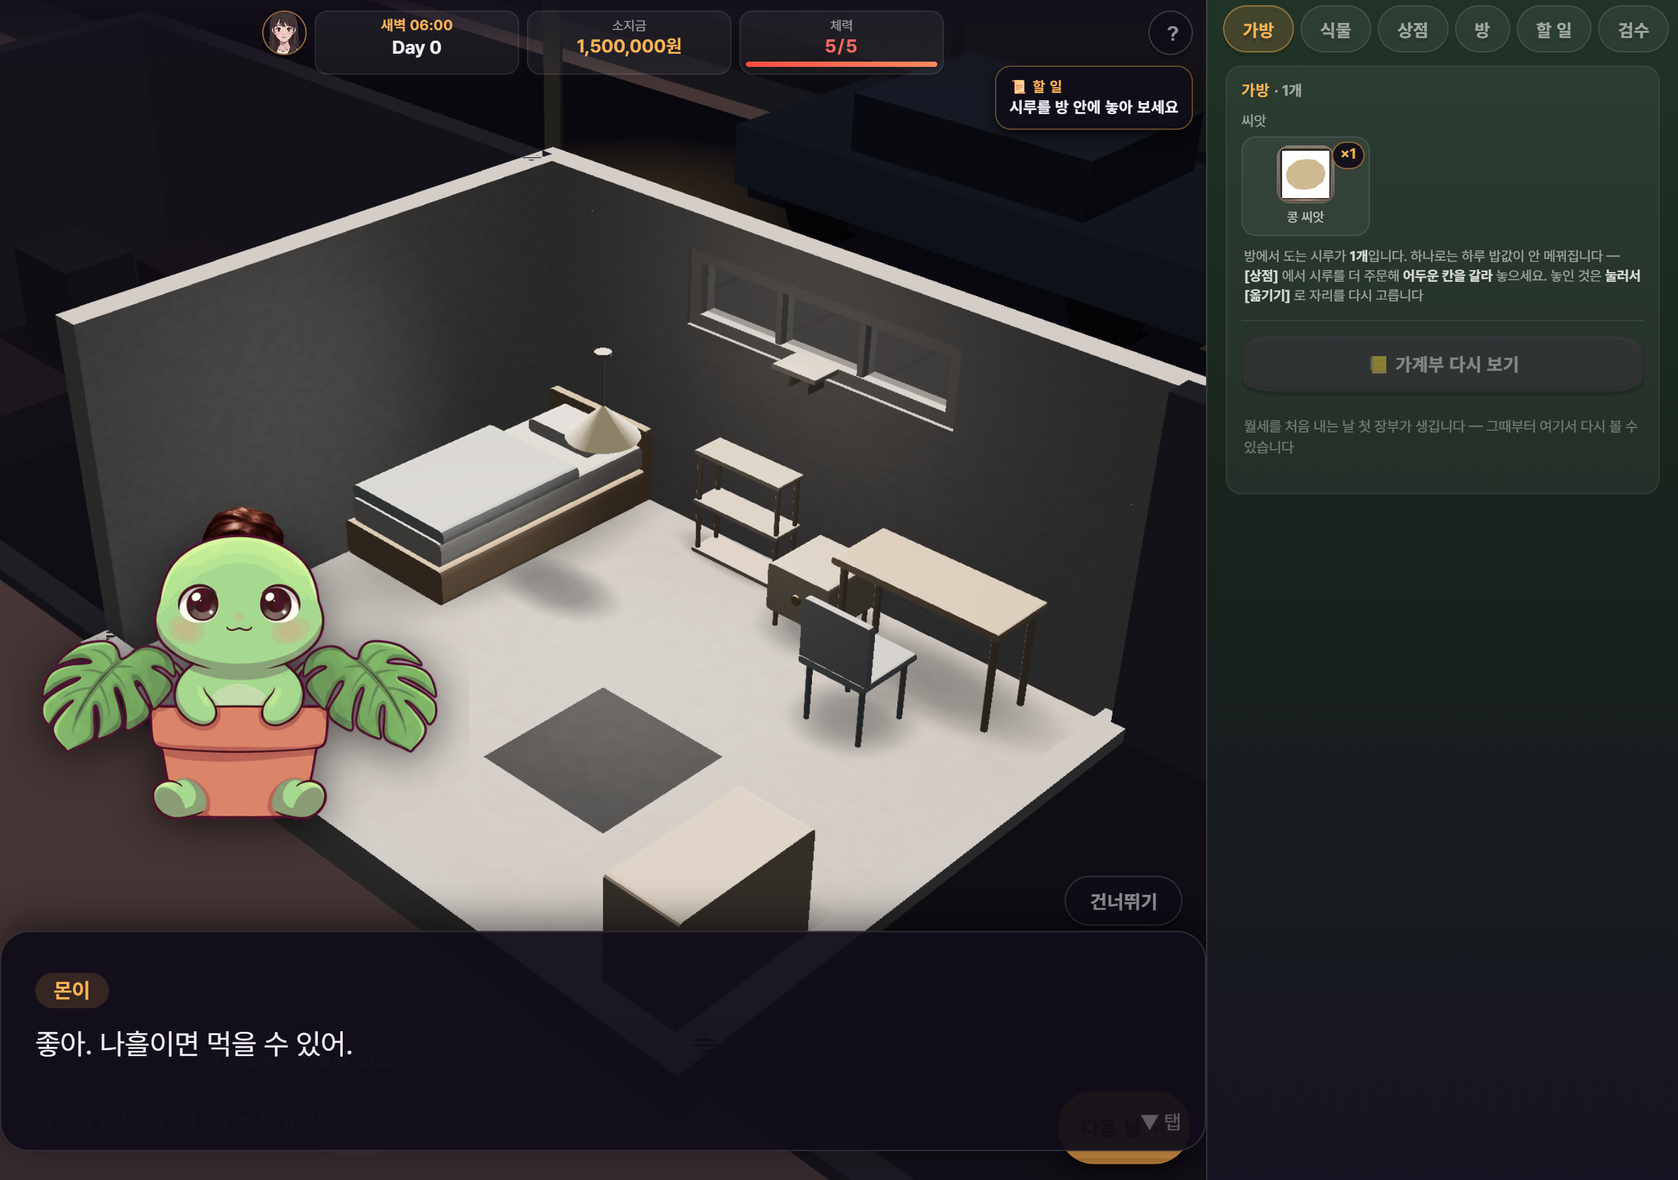
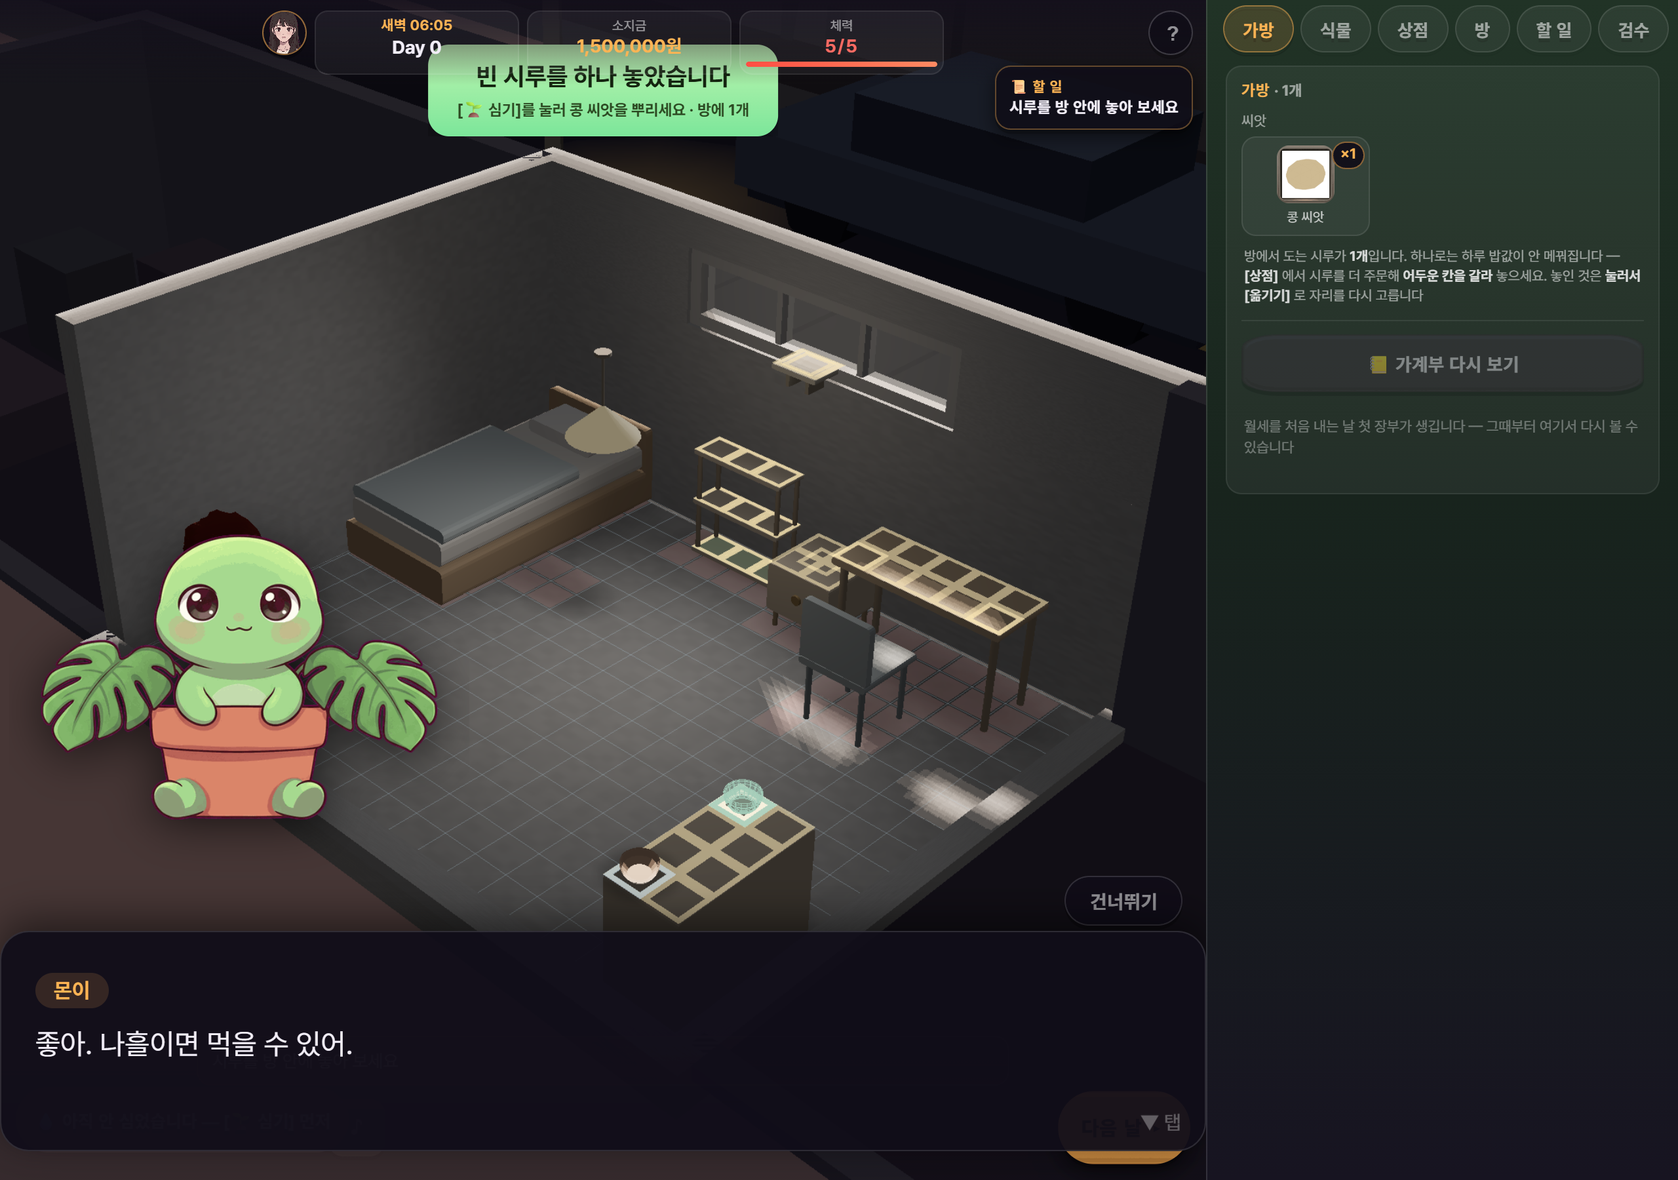
가방에서 처음 끄는 물건도 제 모습으로 선다 — 설치지점 유령이 민 원기둥이던 것
drag.move 가 넘기는 potId 는 「방에 이미 서 있는 같은 물건」을 찾는 열쇠라,
처음 놓는 것은 늘 빈손이고 대역(민 원기둥)이 섰다. 하나 놓고 난 뒤부터만
제 모습이 되는, 판마다 다른 그림이었다.

room_view 에 prepareGhost(spec, potD) 를 냈다. 조립이 async 라 매 프레임 도는
previewAt 에서 못 부르므로 drag.begin 에서 한 번 짓고 캐시한다. 못 지으면
null 을 돌려주고 예전대로 대역이다. 방을 바꾸면 같이 버린다.

⚠ 짜면서 한 번 헛디뎠다 — previewAt 의 세 갈래를 삼항으로 이어 놓았더니
앞 갈래가 잡히기만 하고 빈손으로 끝나면 뒷길을 안 봤다. potId 는 늘 실려
오므로 ghostKey 가 영영 안 쓰였다. || 로 다시 지었다.

실측: 가방길 유령 메시 1(대역) → 3 · 선 3. 방안길도 같다.

diff --git a/game.html b/game.html
@@ -14,7 +14,7 @@
 <meta http-equiv="Pragma" content="no-cache">
 <meta http-equiv="Expires" content="0">
 <!-- 지금 보고 있는 판이 언제 것인지. 캐시가 의심되면 이걸 본다 -->
-<meta name="byeot-build" content="2026-08-18T-grid">
+<meta name="byeot-build" content="2026-08-18T-ghost">
 <!-- ★★ 글씨 (2026-08-06 박사님: "글씨체가 이상해. 한글이 안 읽히네 뭔가. 잘 안 보여").
      Pretendard 를 **실제로 받아 온다.** 이름만 적어 두면 그 글씨가 깔린 기계에서만 보이고,
      안 깔린 기계에서는 조용히 system-ui 로 떨어진다 — 화면이 기계마다 달라진다.
@@ -2801,7 +2801,10 @@ import { catalogList, orderItem, shopStatus, priceOf,
          /* ★ 2026-08-16 — 잎별 무늬 그림(중간잎·성숙잎을 등급으로 확정 · midalbo-to-plan) */
          potLeafSkinsOf,
          /* ★ 삽수 병 속 잎도 **같은 길**로 고른다 — 자른 그 잎의 등급에서(§자른 그 가지) */
-         leafSkinsFor } from './src/game/shop.js';
+         leafSkinsFor,
+         /* ★ 화분 표 — 설치지점 유령을 지을 때 **모양·지름을 여기서 읽는다**(§ghostSpecFor).
+            지어내면 안 되는 값이다. `state.js` 도 같은 표를 본다(§plantMonsteraSeed). */
+         POT_KINDS } from './src/game/shop.js';
 /* ★ 삽수 — 규칙과 수치는 전부 propagation.js 것이다. 여기서는 부르기만 한다
    (날짜를 여기서 다시 세면 화면과 코어가 갈라진다). */
 import { takeCutting, repotCutting, cuttableNow, cutBudgetOf, cutBlockedReason,
@@ -10985,7 +10988,7 @@ const freePlace = {
   /* ★ `fromId` — **지금 방에 서 있는 그 그루의 실루엣**으로 띄운다(옮기는 중일 때).
      `potId` 로 찾는 길보다 정확하다. `plants` 의 열쇠를 그대로 쓰므로 시루·무순·빈 화분·
      둘째 몬스테라가 **전부 제 모습**으로 선다(§previewAt · opt.fromId 가 potId 를 이긴다). */
-  preview(hit, potD, potId, fromId) {
+  preview(hit, potD, potId, fromId, ghostKey) {
     if (!roomView || !roomView.previewAt) return;
     try {
       /* ★★ **좌표가 없는 hit 은 「자리 없음」이다** (2026-08-08 · QA §3-C).
@@ -11001,7 +11004,7 @@ const freePlace = {
       }
       roomView.previewAt({ x: hit.x, y: hit.y, z: hit.z, rotY: hit.rotY || 0,
                            onUid: hit.onUid, occIdx: hit.occIdx },
-                         { potD, valid: !!hit.ok, potId, fromId });
+                         { potD, valid: !!hit.ok, potId, fromId, ghostKey });
     } catch { }
   },
   clear() { try { roomView && roomView.clearPreview && roomView.clearPreview(); } catch { } },
@@ -11071,6 +11074,29 @@ const freePlace = {
   }
 };
 
+/* ★★ 끌고 있는 것의 **설치지점 유령**을 지을 spec (2026-08-18 · §drag.begin).
+   ------------------------------------------------------------
+   ⚠ 이 spec 은 **놓을 때 쓰는 spec 이 아니다.** 놓는 일은 `commitPlace` 가 코어를 거쳐
+     하고, 여기 것은 「이만한 것이 이렇게 생겼다」만 보이면 되는 그림용이다. 그래서
+     나이·이력을 안 싣는다 — 실으면 두 벌이 되고 반드시 어긋난다(§2.8).
+   ⚠ 몬스테라(방에 사는 그루)는 여기서 안 짓는다. 그건 `potId` 로 방에 서 있는 그 그루를
+     그대로 복사하는 것이 맞다 — 잎·무늬가 그루마다 다르므로 지어낸 그루를 보이면 거짓이다.
+   못 지을 종류는 **null 을 돌려준다.** 그때는 예전대로 대역(민 원기둥)이 선다. */
+function ghostSpecFor(what, potD) {
+  const w = String(what || '');
+  /* 갓 놓는 시루·재배판은 **안 심은 빈 그릇**이다 — 놓기와 심기가 두 걸음이다(2026-08-11) */
+  if (w === 'beansprout' || w === 'musun')
+    return { kind: w, progress01: 0, count: 1, sown: false,
+             potD: Number.isFinite(potD) ? potD : undefined };
+  /* 화분+씨앗은 놓는 순간 **빈 그릇**이 먼저 선다(심는 것은 그 다음 걸음이다) */
+  if (/^monsteraSeed:/.test(w)) {
+    const itemId = w.slice('monsteraSeed:'.length);
+    const k = Object.values(POT_KINDS).find(x => x && x.itemId === itemId) || null;
+    return { kind: 'emptypot', potAsset: (k && k.asset) || null,
+             potD: (k && k.diameterM) || (Number.isFinite(potD) ? potD : undefined) };
+  }
+  return null;
+}
 /* ══ 끌어다 놓기 (박사님 2026-08-03: "드래그해서 배치할 수 있게") ══════════
    드롭다운으로 자리를 고르면 **방을 보면서 놓는다**는 감각이 사라진다.
    ★드래그를 **아이템 위에서 시작**한다 — 3D 위에서 시작하면 카메라 회전과 부딪힌다.
@@ -11129,6 +11155,21 @@ const drag = {
     document.body.classList.add('dragging');
     $('dragGhost').style.backgroundImage = `url(${thumbUrl})`;
     $('dragGhost').classList.add('on');
+    /* ★★ 2026-08-18 — **설치지점 유령을 여기서 한 번 짓는다** (박사님: *"드래그시 설치지점
+       미리보기가 이상하다"*).
+       ══════════════════════════════════════════════════════════════════
+       ⚠ 아래 `move` 가 넘기는 `potId` 는 「방에 **이미** 서 있는 같은 물건」을 찾는 열쇠다.
+         처음 놓는 것은 방에 없으니 늘 빈손이었고, 그러면 대역(민 원기둥)이 섰다 —
+         **하나 놓고 난 뒤부터만 제 모습**이 되는, 판마다 다른 그림이었다(실측: 유령 메시 1).
+       ⇒ 끌기가 **시작될 때 한 번** 지어 둔다. 조립은 async 라 매 프레임 부를 수 없다.
+         늦게 도착하면 그때부터 바뀔 뿐이고, 못 지으면 예전대로 대역이다(`ghostKey` 가 null). */
+    this.ghostKey = null;
+    if (roomView && roomView.prepareGhost) {
+      const spec = ghostSpecFor(what, this.potD);
+      if (spec) Promise.resolve(roomView.prepareGhost(spec, this.potD))
+        .then(k => { if (this.on && this.what === what) this.ghostKey = k || null; })
+        .catch(() => { });
+    }
     /* ★추천 자리를 원으로 알린다. 원은 안내지 제약이 아니다 — 원 밖에도 놓인다(박사님). */
     freePlace.rings(true, this.potD);
     freePlace.grid(true, { potD: this.potD });
@@ -11159,7 +11200,9 @@ const drag = {
     const potId = this.what === 'monstera' ? (pot0(S) ? pot0(S).id : null)
                 : this.what === 'musun'    ? CROP_SITE_IDS.musun
                 :                            BEANSPROUT_ID;
-    freePlace.preview(hit, this.potD, potId);
+    /* ★ `ghostKey` — 방에 아직 그 물건이 **하나도 없을 때** 쓸 유령 원본(§drag.begin).
+       위 `potId` 가 찾는 것은 「방에 이미 서 있는 같은 물건」이라, 처음 놓는 것은 늘 빈손이었다. */
+    freePlace.preview(hit, this.potD, potId, null, this.ghostKey || null);
     freePlace.rings(true, this.potD, hit && hit.ok ? { x: hit.x, z: hit.z } : null,
                     hit && hit.snappedTo);
     this.best = hit;
@@ -11190,6 +11233,8 @@ const drag = {
     const hit = this.best, sel = this.sel, what = this.what;
     this.on = false; this.what = null; this.sel = null; this.valid = []; this.best = null;
     this.sowing = false;
+    /* ★ 열쇠만 놓는다 — 유령 원본은 방뷰가 캐시로 갖고 있다(다음 끌기가 즉시 쓴다). */
+    this.ghostKey = null;
     document.body.classList.remove('dragging');
     /* ★ `inroom` 도 같이 뗀다 (2026-08-18). 안 떼면 **다음 끌기가 그 찌꺼기를 물려받는다** —
        가방에서 한 번 끌어 본 판에서는 사진이 저절로 감춰져 「고쳐져 있다」로 보이고,

diff --git a/src/game/room_view.js b/src/game/room_view.js
@@ -1054,6 +1054,7 @@ export async function createRoomView(canvas, opts = {}) {
     for (const k of [...plantBlobs.keys()]) dropPlantBlob(k);   // 남은 접지 그림자까지
     clearRings();
     clearGuideRings();
+    clearGhostSrc();                // ★ 옛 방 물건이 새 방 유령이 되면 안 된다(§prepareGhost)
     disposeOutside();               // 방마다 다시 짓는다 — 창 자리가 다르다
     disposeNeighbors();             // 이웃 방도 방 크기를 따라간다
     while (houseGroup.children.length) houseGroup.remove(houseGroup.children[0]);
@@ -5356,6 +5357,41 @@ export async function createRoomView(canvas, opts = {}) {
     return (typeof rank === 'string' && RANK_HEX[rank] != null) ? rank : null;
   }
 
+  /* ★★ 아직 방에 없는 물건의 **유령 원본**을 미리 지어 둔다 (2026-08-18 · §previewAt).
+     ------------------------------------------------------------
+     ⚠ 조립은 **async** 다 — 몬스테라가 3~12ms 다. 매 프레임 도는 `previewAt` 에서 부르면
+       손가락이 그 자리에서 멎는다. 그래서 **끌기가 시작될 때 한 번** 부르고,
+       그때까지는 예전대로 대역이 선다. 늦게 도착해도 조용히 바뀔 뿐 아무것도 안 깨진다.
+     ⚠ 여기서 지은 것은 **씬에 안 넣는다.** 복사할 원본으로만 갖고 있는다.
+     ⚠ 방을 바꾸거나 뷰를 버리면 같이 버린다 — 안 버리면 옛 방의 물건이 새 방 유령이 된다.
+     돌려주는 값은 `previewAt(opt.ghostKey)` 에 그대로 넣을 열쇠다. 못 지으면 **null** 이다
+     (지어낸 열쇠를 주면 화면이 「있다」고 믿고 영영 대역이 안 뜬다). */
+  const ghostSrc = new Map();
+  async function prepareGhost(spec, potD) {
+    if (!spec || !spec.kind) return null;
+    const d = Number.isFinite(potD) ? potD : potDOf(spec.kind, spec.count);
+    const key = `${spec.kind}:${d.toFixed(3)}:${spec.count || 1}:${spec.sown === false ? 'n' : 'y'}`;
+    if (ghostSrc.has(key)) return key;
+    try {
+      const days = usesGrowthDays(spec.kind)
+        ? growthDaysOf(spec, await assembler(), null)
+        : Math.round(clamp(spec.progress01 ?? 1, 0, 1) * 100);
+      const group = await buildPlantGroup(spec, Number.isFinite(spec.potD) ? spec.potD : Infinity, days);
+      if (!group) return null;
+      /* 방을 바꾸는 사이에 도착했을 수 있다 — 그때는 버린다(옛 방 물건이다) */
+      if (!built) { disposeObject(group); return null; }
+      ghostSrc.set(key, { group, potD: d, ghostKey: key });
+      return key;
+    } catch (e) {
+      console.warn('[방뷰] 유령 원본을 못 지었습니다 — 대역으로 갑니다:', e && e.message);
+      return null;
+    }
+  }
+  function clearGhostSrc() {
+    for (const [, s] of ghostSrc) { try { disposeObject(s.group); } catch { } }
+    ghostSrc.clear();
+  }
+
   function disposePreview() {
     if (!preview) return;
     houseGroup.remove(preview.group);
@@ -5517,11 +5553,26 @@ export async function createRoomView(canvas, opts = {}) {
        "여기는 안 된다"가 눈에 보인다. 여기서 던지면 화면이 그냥 멈춘다.
        (NaN·무한대는 그대로 던진다. 그건 배선이 틀린 것이라 보여 줄 값이 없다) */
     const A = makeAt(at);
-    const src = opt.fromId != null ? plants.get(opt.fromId)
-              : opt.potId != null ? plantOf(opt.potId) : null;
+    /* ★★ 2026-08-18 — **아직 방에 없는 물건**도 제 모습으로 선다 (박사님: *"드래그시
+       설치지점 미리보기가 이상하다"*).
+       ══════════════════════════════════════════════════════════════════
+       ⚠ 여기 있던 두 길(`fromId`·`potId`)은 **방에 이미 서 있는 그루를 복사**하는 길이다.
+         가방에서 **처음** 끄는 물건은 방에 없으니 둘 다 빈손이고, 그러면 대역
+         (민 원기둥)이 섰다. 「시루를 끄는데 초록 통이 선다」가 그것이다.
+         ⇒ 하나를 놓고 난 **뒤부터만** 제 모습이 되던, 판마다 다른 그림이었다.
+       ⇒ 세 번째 길을 낸다 — `opt.ghostKey`. `prepareGhost(spec)` 가 **끌기 시작할 때 한 번**
+         지어 둔 것을 여기서 꺼내 쓴다. 못 찾으면 예전 그대로 대역이다(§prepareGhost). */
+    /* ⚠ 삼항으로 **가르면 안 된다.** 앞 갈래가 잡히기만 하고 **빈손으로 끝나면** 뒷길을
+       아예 안 본다 — `potId` 는 늘 실려 오므로(BEANSPROUT_ID 등) `ghostKey` 가 영영
+       안 쓰였다(그렇게 짜 놓고 재서 잡았다). **찾을 때까지 내려간다**로 짓는다. */
+    const src = (opt.fromId != null ? plants.get(opt.fromId) : null)
+             || (opt.potId != null ? plantOf(opt.potId) : null)
+             || (opt.ghostKey != null ? ghostSrc.get(opt.ghostKey) : null)
+             || null;
     const potD = Number.isFinite(opt.potD) ? opt.potD : (src ? src.potD : MONSTERA_POT_D);
     /* 같은 유령이면 다시 만들지 않는다 — 끄는 내내 GLB 를 복제하면 폰이 죽는다 */
-    const srcKey = src ? keyOfPlant(src) : `generic:${potD.toFixed(3)}`;
+    const srcKey = src ? (keyOfPlant(src) || src.ghostKey || `spec:${potD.toFixed(3)}`)
+                       : `generic:${potD.toFixed(3)}`;
     if (!preview || preview.srcKey !== srcKey || preview.kind !== 'at') {
       disposePreview();
       preview = buildGhost(src ? src.group : null, potD);
@@ -9155,6 +9206,10 @@ export async function createRoomView(canvas, opts = {}) {
     /* 반투명 유령을 그 좌표에 세운다. opt.valid=false 면 붉게.
        previewMove 와 유령 한 벌을 나눠 쓴다 — 둘이 동시에 뜨지 않는다. */
     previewAt(at, opt) { try { return previewAt(at, opt || {}); } catch (e) { throw fail(e); } },
+    /* ★ 아직 방에 없는 물건의 유령 원본을 미리 짓는다(§prepareGhost · 2026-08-18).
+       **끌기가 시작될 때 한 번** 부른다. 돌려주는 열쇠를 `previewAt` 의 `opt.ghostKey` 에 넣는다.
+       못 지으면 null 이다 — 그때는 예전대로 대역(민 원기둥)이 선다. */
+    prepareGhost(spec, potD) { return prepareGhost(spec, potD); },
     clearPreview() { disposePreview(); },
 
     /* 추천 자리 원형 가이드. on=false 면 감춘다(지우지 않는다 — 다시 켤 때 값싸다).
@@ -9803,6 +9858,7 @@ export async function createRoomView(canvas, opts = {}) {
       disposeFurnGhost();
       clearFurnHighlight();
       clearGuideRings();
+      clearGhostSrc();
       /* ★ 빛 분포 — 감쌌던 renderer.render 를 되돌리고 숫자 <div> 를 DOM 에서 걷는다 */
       if (heatView) { heatView.dispose(); heatView = null; heatOpt = null; }
       clearGrid();

diff --git a/docs/handoff/gridmove-to-plan.md b/docs/handoff/gridmove-to-plan.md
@@ -123,19 +123,36 @@
 
 사진 `img/topcell/_p_after.png`.
 
-### 2-4 아직 안 고친 것 — **가방에서 처음 끌 때는 여전히 대역 유령**
+### 2-4 가방에서 **처음** 끌 때도 고쳤다 — `prepareGhost`
+
+같은 자로 재 보니 **가방길에도 같은 병**이 있었다. 뿌리는 다르다:
 
 ```
-가방길 : 유령 메시 1 · generic=true
+가방길(고치기 전) : 유령 메시 1 · generic=true      ← 민 원기둥
 ```
 
-`drag.move` 는 `potId` 로 **방에 이미 서 있는 같은 물건**을 찾아 복사한다. 처음 놓는 것은
-방에 없으니 대역(민 원기둥)이 선다. 하나를 놓고 나면 그 뒤로는 제 모습으로 선다.
+`drag.move` 가 넘기는 `potId` 는 「방에 **이미** 서 있는 같은 물건」을 찾는 열쇠다.
+처음 놓는 것은 방에 없으니 늘 빈손이고, 그러면 대역이 선다 —
+**하나 놓고 난 뒤부터만 제 모습**이 되는, 판마다 다른 그림이었다.
 
-⇒ 제대로 고치려면 **spec 으로 유령을 짓는 길**이 있어야 한다. `buildPlantGroup` 은 **async** 라
-  매 프레임 도는 미리보기에서 그대로 부를 수 없다(몬스테라 조립이 3~12ms).
-  **`drag.begin` 에서 한 번 미리 지어 두고 캐시**하는 것이 맞는 자리로 보인다.
-  ⚠ 하려면 `room_view` 에 창구(`prepareGhost(spec, potD)`)를 새로 내야 한다 — **다음 창 몫으로 남긴다.**
+⇒ `room_view` 에 창구를 냈다: **`prepareGhost(spec, potD)`**
+  · 조립은 **async** 다(몬스테라 3~12ms) — 매 프레임 도는 `previewAt` 에서 못 부른다.
+    그래서 **`drag.begin` 에서 한 번** 짓고 `ghostSrc` 에 캐시한다. 늦게 도착하면 그때부터 바뀐다.
+  · 못 지으면 **`null` 을 돌려준다** — 지어낸 열쇠를 주면 화면이 「있다」고 믿고 영영 대역이 안 뜬다.
+  · 방을 바꾸거나 뷰를 버릴 때 같이 버린다(`clearGhostSrc`) — 옛 방 물건이 새 방 유령이 되면 안 된다.
+  · spec 은 `game.html §ghostSpecFor` 가 짓는다. **놓을 때 쓰는 spec 이 아니다** — 나이·이력을
+    안 싣는다(§2.8: 두 벌이 되면 반드시 어긋난다). 갓 놓는 시루·재배판은 **안 심은 빈 그릇**이고,
+    화분+씨앗은 **빈 그릇**이 먼저 선다. 몬스테라는 **안 짓는다** — 잎·무늬가 그루마다 달라
+    지어낸 그루를 보이면 그 자체가 거짓이다. 그건 `potId` 로 방의 그 그루를 복사하는 것이 맞다.
+
+⚠⚠ **여기서 한 번 헛디뎠고 자가 잡아 줬다.** `previewAt` 의 세 갈래를 삼항으로 이어 놓았더니
+  **앞 갈래가 잡히기만 하고 빈손으로 끝나면 뒷길을 아예 안 봤다.** `potId` 는 늘 실려 오므로
+  (`BEANSPROUT_ID` 등) `ghostKey` 가 **영영 안 쓰였다.** 짜 놓고 재니 그대로 대역이 나왔다.
+  ⇒ `||` 로 **찾을 때까지 내려간다**로 다시 지었다. ★ 「갈래를 고르는 조건」과
+    「그 갈래가 값을 냈나」는 **다른 물음**이다. 삼항 하나에 둘을 담으면 이렇게 된다.
+
+**실측(고친 뒤)**: 가방길 유령 **메시 3 · 선 3 · generic 아님**. 사진 `img/topcell/_bag.png`
+(서랍장 위에 반투명 시루가 서고, 상판이 4×2 칸으로 덮인다).
 
 ---
 
@@ -167,7 +184,18 @@
 
 ## 5. 남은 것 — 다음 창에게
 
-1. **가방에서 처음 끌 때의 유령** (§2-4). `prepareGhost` 창구가 필요하다.
-2. **협탁 자리를 칸 한가운데로** (§1-4). 얼린 표를 손댈 수 있게 된 뒤에.
+1. **협탁 자리를 칸 한가운데로** (§1-4). 얼린 표를 손댈 수 있게 된 뒤에.
+   `furniture_pastel.js B.nightstand` 에 `frontCellZ(d)` 를 주는 한 줄이다.
+2. **몬스테라 카드 끌기의 `pot0(S)` 는 지금은 맞다 — 그러나 조건부다.**
+   `drag.move` 가 몬스테라일 때 `pot0(S)` 를 쓰는데, 끌기가 걸린 손잡이는
+   `bindDrag('plantThumb', 'monstera')` **하나**이고 `#plantCard` 는 설계상 **첫 그루 카드**다
+   (둘째부터는 아래 줄로 서고 끌기가 안 걸려 있다 — 확인함). 그래서 지금은 어긋나지 않는다.
+   ⚠ **둘째 그루에 끌기를 붙이는 날** 이 줄이 그대로면 그 순간 「집은 것 ≠ 붙든 것」이 된다.
+     그때는 §2-3 처럼 **집은 그루**를 넘겨야 한다. 붙일 때 이 줄을 같이 보라.
 3. 지시서 §㉣ 의 나머지 — 확대창·잎 수가 「고른 그루」인 것 · 쌍둥이 잎 절반 · `headroom.js` 미호출.
 4. **생성기와 실시간이 왜 갈리나** (지시서 4번). 안 건드렸다.
+
+★ 그리고 지시서 §㉡ 에 적힌 *"서랍장에 5자리를 원하면 폭 1.0 → 1.25m"* 는 **아직 안 했다.**
+  지금 서랍장은 4×2 = **8칸이 다 그려진다**(전에는 6칸) — 「자리가 모자란다」로 보이던 것이
+  칸이 빠져 있던 탓이었으므로, 폭을 늘릴지는 **그 화면을 보고 다시 정하는 것**이 맞다.
+  늘리면 가구가 커지고 조도가 움직인다 — **박사님 판단이 필요한 자리**다.
